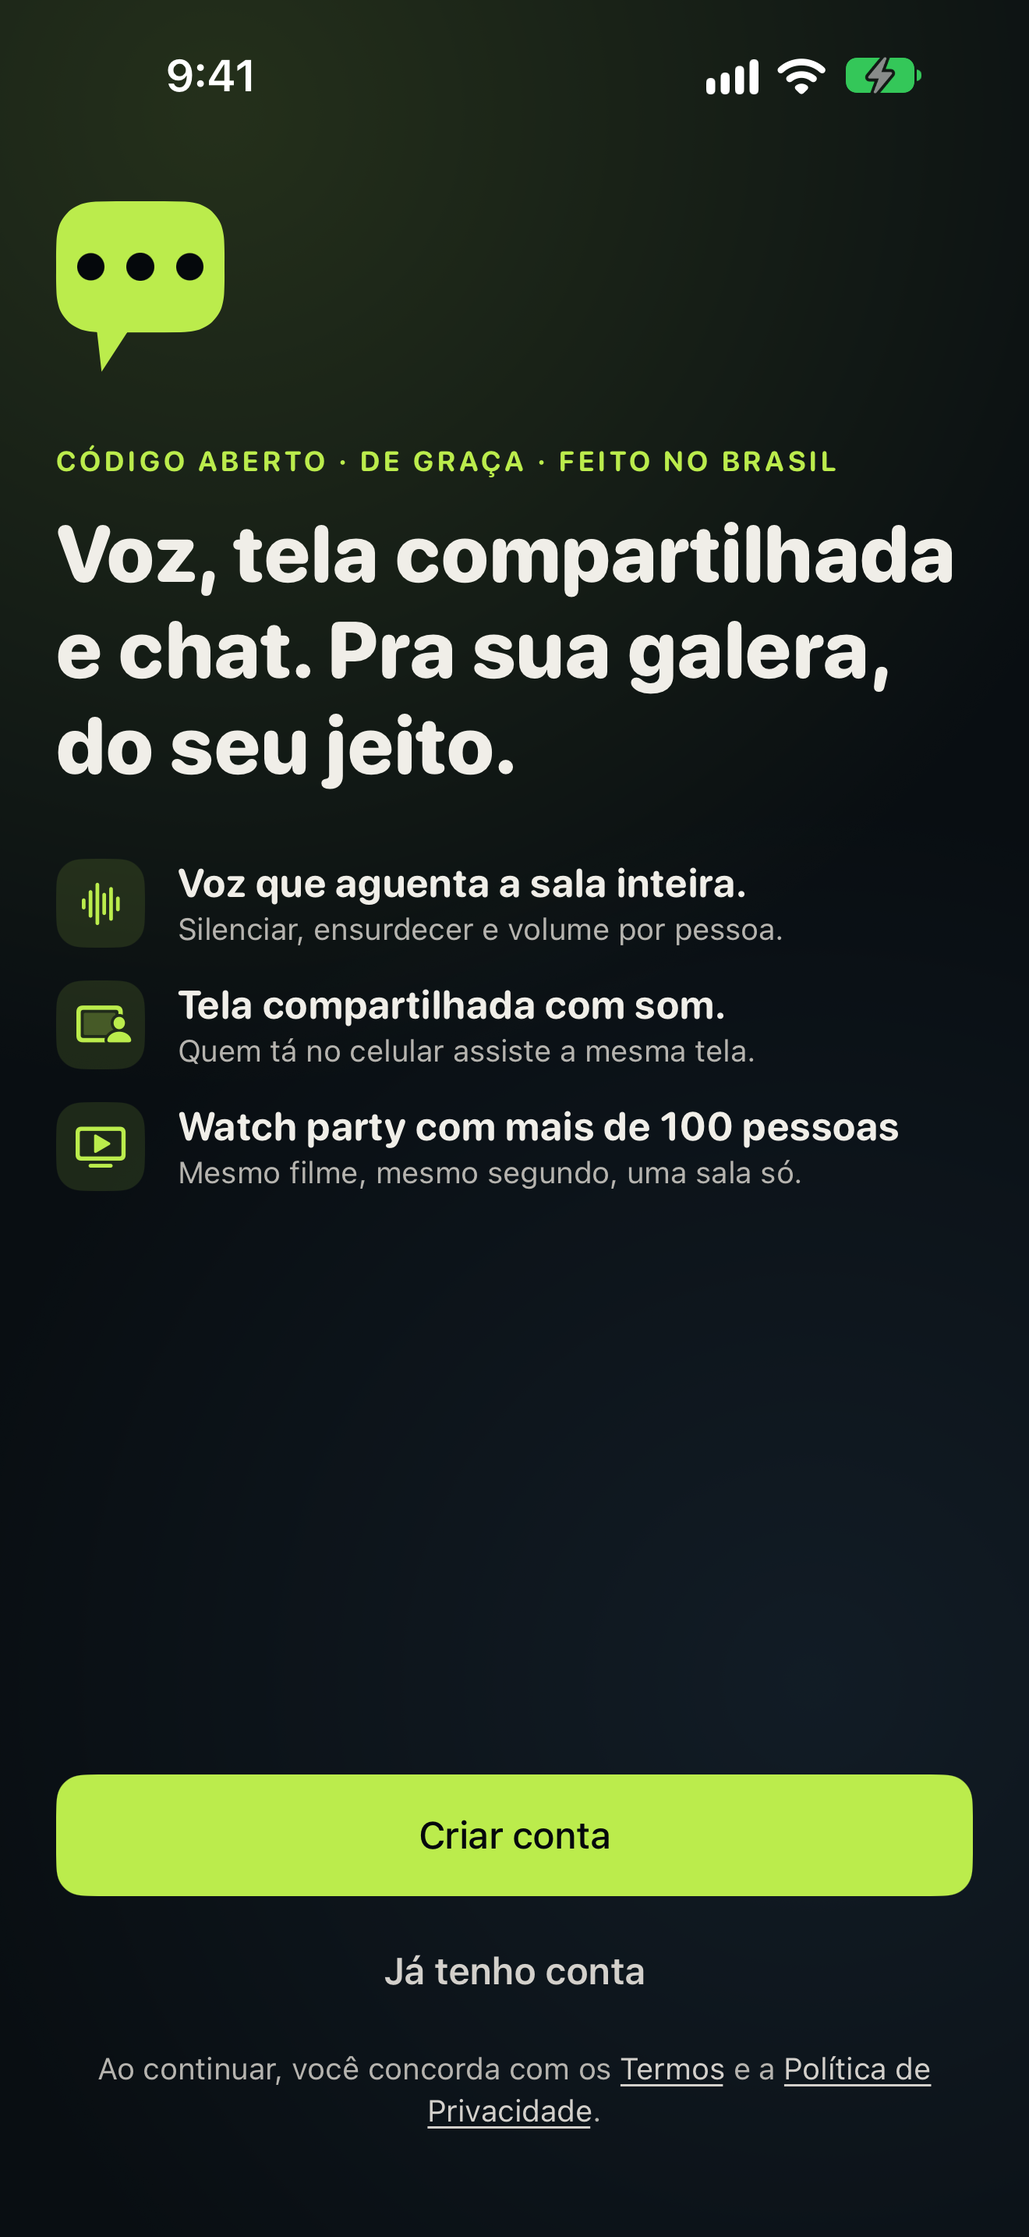
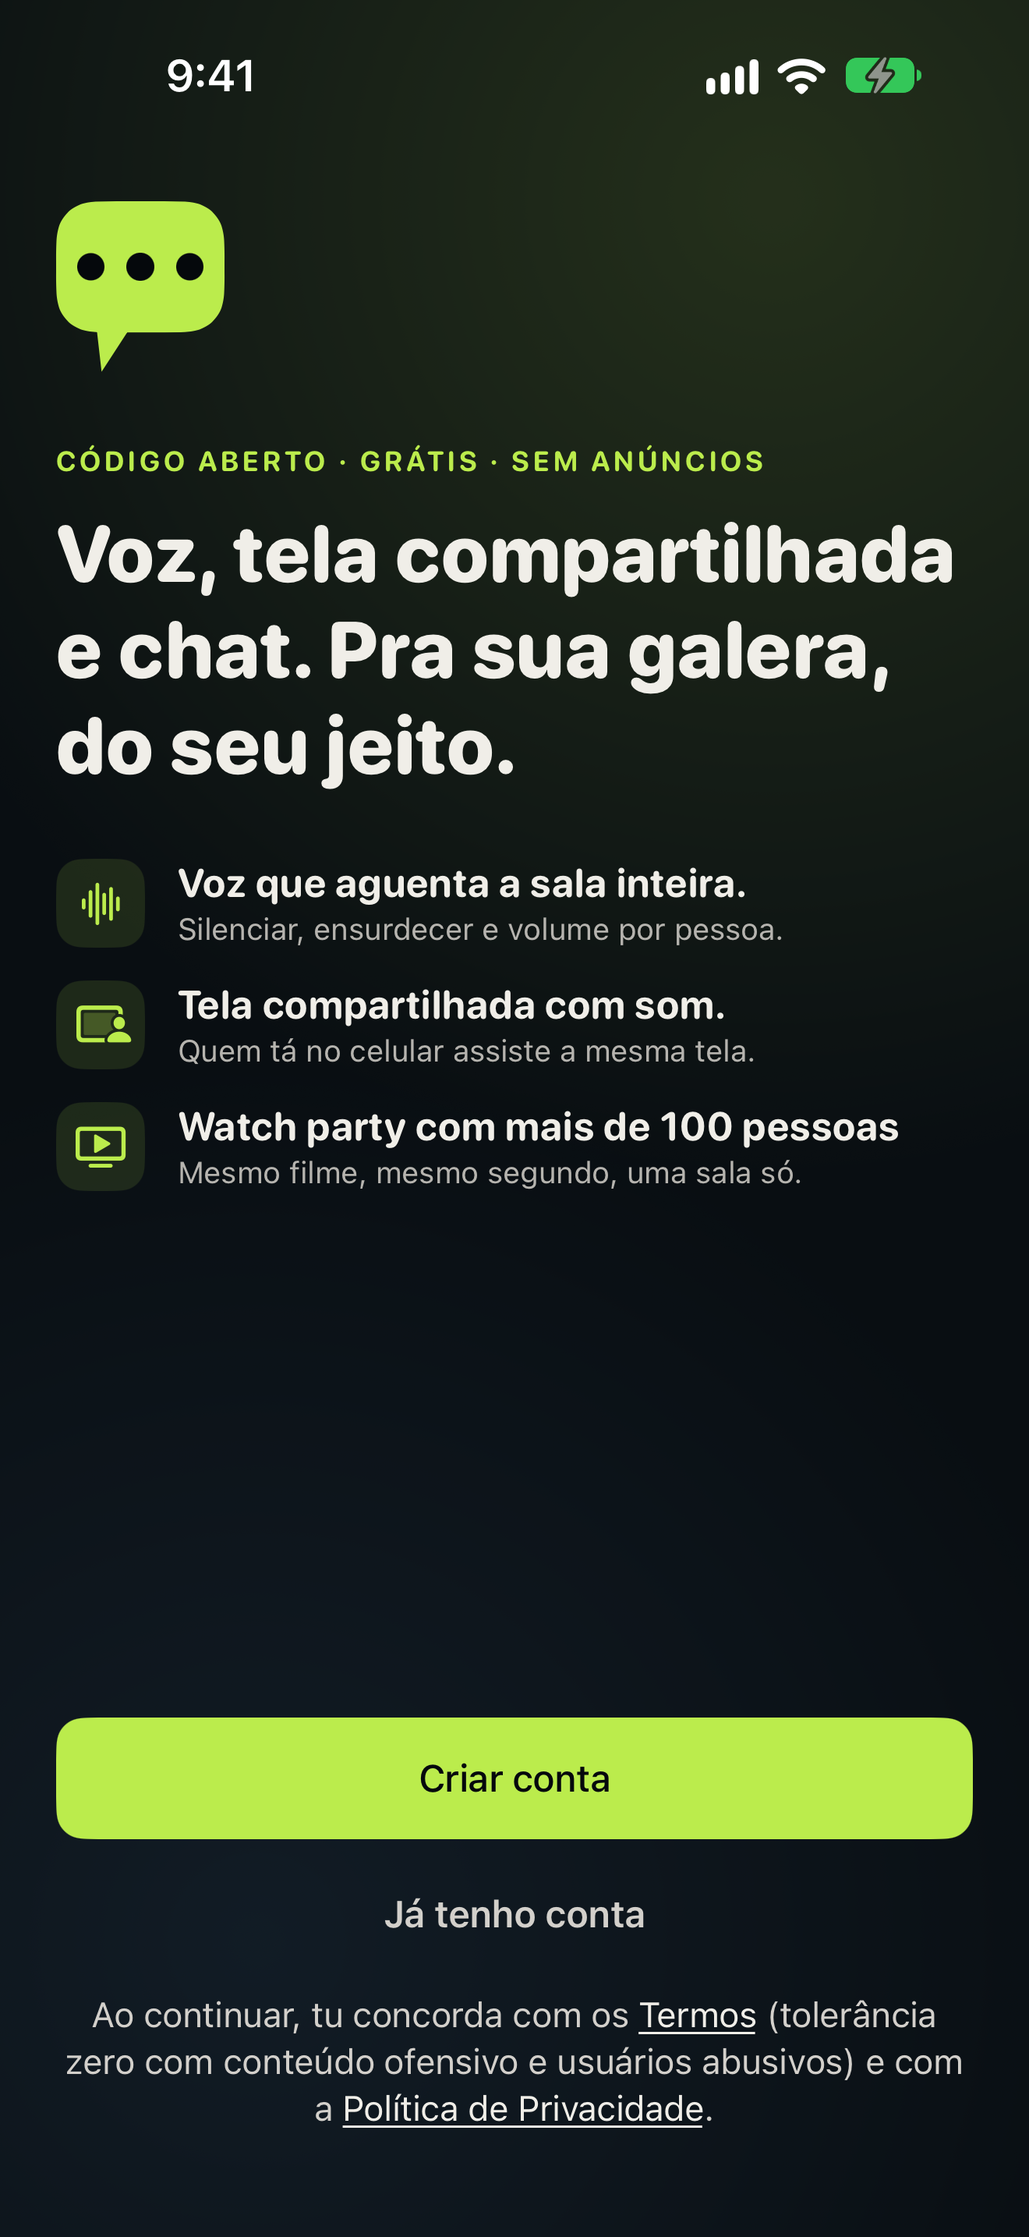
iOS App Review round 2: terms line says zero tolerance and sits on the age gate, Friends Message opens the existing DM, block hides reactions and shows an empty state, no ATS exception in Release, description claim removed, store shot 01 retaken
Claude-Session: https://claude.ai/code/session_01SbDEYbuwWHXXn9KfNvNWqb

Changed region(s): [[0.0311, 0.7448, 0.9629, 0.962], [0.3727, 0.1862, 0.8076, 0.2172]]

diff --git a/ios/pqp/Sources/Home/FriendsView.swift b/ios/pqp/Sources/Home/FriendsView.swift
@@ -204,10 +204,12 @@ struct FriendsView: View {
                 .buttonStyle(.plain)
                 .disabled(model.busyId == friend.id)
                 .contextMenu {
-                    Button {
-                        Task { opened = await model.openConversation(with: friend.id) }
-                    } label: {
-                        Label("Message", systemImage: "bubble.left")
+                    if !model.cannotMessage.contains(friend.id) {
+                        Button {
+                            Task { opened = await model.openConversation(with: friend.id) }
+                        } label: {
+                            Label("Message", systemImage: "bubble.left")
+                        }
                     }
                     Button(role: .destructive) {
                         model.confirming = .remove(friend)
@@ -344,6 +346,11 @@ final class FriendsModel {
     /// side and no frame back to us.
     var notice: String?
     var busyId: String?
+    /// Friends the server refused to open a conversation with, when there was
+    /// none already. Their Message action is withdrawn for the rest of the
+    /// visit: a button that can only fail, in red, with the server's sentence,
+    /// is what a reviewer pressing Message on a character friend saw.
+    var cannotMessage: Set<String> = []
     var showingAdd = false
     var confirming: Confirmation?
     /// The last live nudge, so the screen can say what just happened. A row
@@ -540,21 +547,39 @@ final class FriendsModel {
         }
     }
 
-    /// Open (or reuse) the DM with a friend. Friends bypass a `server_members`
-    /// DM privacy setting server-side, which is why this is offered here at all
-    /// — but it does NOT override `nobody`, so a refusal is still possible and
-    /// the server's wording is what gets shown.
+    /// Open (or reuse) the DM with a friend.
+    ///
+    /// An existing conversation is found in the DM list first (see
+    /// `openOrFindConversation`), so a friend the server will not OPEN a
+    /// conversation with, like a character, still opens the one that is already
+    /// in the hub. Friends bypass a `server_members` DM privacy setting
+    /// server-side, but not `nobody`, so a refusal is still possible when there
+    /// is no conversation yet. That one is not an error to show in red: the
+    /// action is withdrawn for this person and a plain line says so. The
+    /// server's sentence stays out on purpose, it is the same for every cause.
     func openConversation(with userId: String) async -> DmSummary? {
-        guard let session else { return nil }
+        guard let session, !cannotMessage.contains(userId) else {
+            if cannotMessage.contains(userId) { notice = Self.cannotMessageNotice }
+            return nil
+        }
         busyId = userId
         liveNotice = nil
         defer { busyId = nil }
         do {
-            return try await session.api.openConversation(userIds: [userId])
+            return try await session.api.openOrFindConversation(with: userId)
         } catch {
-            if let shown = error.userFacingMessage { self.error = shown }
+            if case .server(let status, _)? = error as? APIError, status == 403 {
+                cannotMessage.insert(userId)
+                notice = Self.cannotMessageNotice
+            } else if let shown = error.userFacingMessage {
+                self.error = shown
+            }
             return nil
         }
+    }
+
+    static var cannotMessageNotice: String {
+        String(localized: "You can't message this person right now.")
     }
 }
 

diff --git a/ios/pqp/Tests/BlockedUsersTests.swift b/ios/pqp/Tests/BlockedUsersTests.swift
@@ -163,4 +163,54 @@ final class BlockedUsersTests: XCTestCase {
         XCTAssertEqual(next.own?.id, me)
         XCTAssertEqual(StoryRules.droppingBlocked(strip, blocked: []), strip)
     }
+
+    // MARK: Reactions, counters, the one-to-one lookup
+
+    func testABlockedPersonsReactionLeavesTheChipAndTheCountDrops() {
+        let reactions = [
+            MessageReaction(emoji: "🎉", count: 2, me: false, users: [
+                ReactionUser(id: "friend", displayName: "Demo Friend"),
+                ReactionUser(id: "other", displayName: "Other"),
+            ]),
+            MessageReaction(emoji: "👍", count: 1, me: false, users: [
+                ReactionUser(id: "friend", displayName: "Demo Friend"),
+            ]),
+        ]
+        let shown = BlockRules.reactions(reactions, blocked: ["friend"])
+        XCTAssertEqual(shown.map(\.emoji), ["🎉"])
+        XCTAssertEqual(shown[0].count, 1)
+        XCTAssertEqual(shown[0].users.map(\.id), ["other"])
+    }
+
+    func testReactionsAreUntouchedWhenNobodyListedIsBlocked() {
+        let reactions = [MessageReaction(emoji: "🎉", count: 3, me: true, users: [])]
+        XCTAssertEqual(BlockRules.reactions(reactions, blocked: ["friend"]), reactions)
+        XCTAssertEqual(BlockRules.reactions(reactions, blocked: []), reactions)
+    }
+
+    func testTheOneToOneLookupFindsThePersonAndNeverAGroup() {
+        let person = PublicUser(id: "u1", displayName: "Demo Friend", username: nil, tag: nil, avatarUrl: nil)
+        let other = PublicUser(id: "u2", displayName: "Other", username: nil, tag: nil, avatarUrl: nil)
+        let unread = DmUnread(count: 0, mentions: 0)
+        let dm = DmSummary(channelId: "c1", kind: "dm", participants: [person], lastMessageAt: nil, unread: unread)
+        let group = DmSummary(channelId: "c2", kind: "group", participants: [person, other], lastMessageAt: nil, unread: unread)
+        XCTAssertEqual([group, dm].oneToOne(with: "u1")?.channelId, "c1")
+        XCTAssertNil([group].oneToOne(with: "u1"))
+        XCTAssertNil([dm].oneToOne(with: "u2"))
+    }
+
+    func testTheBauCommentCounterDropsByTheBlockedCommentsTheCardHolds() throws {
+        let user = #"{"id":"u1","displayName":"Demo Friend","username":null,"tag":null,"avatarUrl":null}"#
+        let post = try Coding.decoder.decode(CommunityHomePost.self, from: Data("""
+        {"id":"p1","serverId":"s1","author":\(user),"title":null,"body":"hi","teaser":"hi",
+         "visibility":"free","locked":false,"likeCount":0,"commentCount":3,
+         "publishedAt":"2026-10-15T12:00:00.000Z","createdAt":"2026-10-15T11:00:00.000Z"}
+        """.utf8))
+        let comment = try Coding.decoder.decode(CommunityHomeComment.self, from: Data("""
+        {"id":"c1","author":\(user),"body":"hello","createdAt":"2026-10-15T12:00:00.000Z"}
+        """.utf8))
+        XCTAssertEqual(post.visibleCommentCount(known: [comment], blocked: ["u1"]), 2)
+        XCTAssertEqual(post.visibleCommentCount(known: [comment], blocked: []), 3)
+        XCTAssertEqual(post.visibleCommentCount(known: [], blocked: ["u1"]), 3)
+    }
 }

diff --git a/ios/pqp/Sources/Onboarding/LegalAgreement.swift b/ios/pqp/Sources/Onboarding/LegalAgreement.swift
@@ -29,32 +29,39 @@ enum LegalLinks {
     }
 }
 
-/// "By continuing, you agree to the Terms and the Privacy Policy."
+/// "By continuing you agree to the Terms (zero tolerance for objectionable
+/// content and abusive users) and the Privacy Policy."
 ///
 /// The two links are Markdown inside one localised sentence, so a translation
 /// can order the words as its language needs. They are underlined as well as
 /// tinted: a link that differs from its sentence by colour alone is invisible
 /// to somebody who cannot tell the colours apart.
+///
+/// Round 2 of the App Review mock found the line too small and too dim to
+/// count as a presented agreement, and silent on the one thing 1.2 asks the
+/// terms to say. So it is `subheadline` in the subtle paper tone (the links in
+/// full paper), names the zero tolerance in the sentence itself, and scales
+/// with Dynamic Type.
 struct LegalAgreementLine: View {
     static var text: AttributedString {
         let source = AttributedString(
-            localized: "By continuing, you agree to the [Terms](https://pqp.gg/terms) and the [Privacy Policy](https://pqp.gg/privacy)."
+            localized: "By continuing you agree to the [Terms](https://pqp.gg/terms) (zero tolerance for objectionable content and abusive users) and the [Privacy Policy](https://pqp.gg/privacy)."
         )
         var value = source
         for run in source.runs where run.link != nil {
             value[run.range].underlineStyle = .single
-            value[run.range].foregroundColor = Palette.paperSubtle
+            value[run.range].foregroundColor = Palette.paper
         }
         return value
     }
 
     var body: some View {
         Text(Self.text)
-            .font(.footnote)
-            .foregroundStyle(Palette.paperMuted)
+            .font(.subheadline)
+            .foregroundStyle(Palette.paperSubtle)
             .multilineTextAlignment(.center)
             .fixedSize(horizontal: false, vertical: true)
-            .frame(maxWidth: 420)
+            .frame(maxWidth: 460)
             .frame(maxWidth: .infinity)
             .accessibilityIdentifier("welcome.agreement")
     }

diff --git a/ios/pqp/Sources/Core/BlockedUsers.swift b/ios/pqp/Sources/Core/BlockedUsers.swift
@@ -207,6 +207,28 @@ enum BlockRules {
         return message.blocked && !released.contains(message.authorId)
     }
 
+    /// The reactions a message shows once the blocked person's are taken out.
+    ///
+    /// A chip that still reads "🎉 Demo Friend" after the block is the person
+    /// still on screen. Each reaction loses the blocked users it lists and its
+    /// count drops by exactly that many; a chip left with nobody goes. The
+    /// reader's own reaction is never touched. The server lists who reacted
+    /// (`users`), and where it does not (an older server) there is nothing to
+    /// match a block against, so the reaction stays as it was.
+    static func reactions(
+        _ reactions: [MessageReaction], blocked: Set<String>
+    ) -> [MessageReaction] {
+        guard !blocked.isEmpty else { return reactions }
+        return reactions.compactMap { reaction in
+            let hidden = reaction.users.filter { blocked.contains($0.id) }.count
+            guard hidden > 0 else { return reaction }
+            var next = reaction
+            next.users.removeAll { blocked.contains($0.id) }
+            next.count = max(reaction.count - hidden, 0)
+            return next.count > 0 ? next : nil
+        }
+    }
+
     /// A conversation is hidden from the list when it is a 1:1 with somebody
     /// blocked. A group stays (the other members are not blocked), and its
     /// preview line is dropped when the newest message is the blocked person's.

diff --git a/ios/pqp/Tests/AppReviewMetadataTests.swift b/ios/pqp/Tests/AppReviewMetadataTests.swift
@@ -60,6 +60,31 @@ final class AppReviewMetadataTests: XCTestCase {
         XCTAssertFalse(text.contains("\u{2014}"))
     }
 
+    func testTheReleasePlistCarriesNoAppTransportSecurityException() throws {
+        // Plain HTTP to a local API is a Debug-only need, added to the BUILT
+        // plist by the "Allow local HTTP (Debug only)" phase in project.yml.
+        // The source plist is what Release ships, so it must not name ATS.
+        let info = try plist("Info.plist")
+        XCTAssertNil(info["NSAppTransportSecurity"])
+    }
+
+    // MARK: Store listing
+
+    func testTheDescriptionsMakeNoDatedAttendanceClaim() throws {
+        // A "100 people in September 2026" line cannot be checked by a reviewer
+        // (Guideline 2.3.1), so the listing says what watch parties are for.
+        let metadata = Self.appRoot
+            .deletingLastPathComponent()  // …/ios
+            .appending(path: "app-store/metadata")
+        for locale in ["en-US", "pt-BR", "es-MX"] {
+            let text = try String(
+                contentsOf: metadata.appending(path: "\(locale)/description.txt"), encoding: .utf8
+            )
+            XCTAssertFalse(text.contains("100"), locale)
+            XCTAssertFalse(text.lowercased().contains("2026"), locale)
+        }
+    }
+
     // MARK: Privacy manifests
 
     func testTheAppManifestSaysNoTrackingAndNamesUserDefaults() throws {

diff --git a/ios/pqp/Sources/Home/CommunityHomeView.swift b/ios/pqp/Sources/Home/CommunityHomeView.swift
@@ -408,6 +408,12 @@ private struct PostCard: View {
         .accessibilityIdentifier("bau.post.menu")
     }
 
+    /// The counter beside the bubble, without the comments of people the
+    /// reader blocked (they are off the card already).
+    private var visibleCommentCount: Int {
+        post.visibleCommentCount(known: expanded ?? post.commentTeaser, blocked: session.blocked.ids)
+    }
+
     private var actions: some View {
         HStack(spacing: 16) {
             Button(action: onToggleLike) {
@@ -429,14 +435,14 @@ private struct PostCard: View {
                 Image(systemName: "bubble.left")
                     .font(.system(size: 15, weight: .semibold))
                     .foregroundStyle(Palette.paperMuted)
-                Text(String(post.commentCount))
+                Text(String(visibleCommentCount))
                     .font(Typography.caption)
                     .monospacedDigit()
                     .foregroundStyle(Palette.paperMuted)
             }
             .accessibilityElement(children: .ignore)
             .accessibilityLabel(Text("Comments"))
-            .accessibilityValue(Text(String(post.commentCount)))
+            .accessibilityValue(Text(String(visibleCommentCount)))
 
             Spacer(minLength: 0)
 

diff --git a/ios/pqp/Sources/Core/APIClient.swift b/ios/pqp/Sources/Core/APIClient.swift
@@ -714,6 +714,22 @@ extension APIClient {
         return response.user
     }
 
+    /// The conversation with one person, reusing the one we already have.
+    ///
+    /// `POST /api/dms` runs its reachability checks even when the pair already
+    /// has a conversation, so a person who cannot be OPENED a conversation (a
+    /// character, whose DMs are closed to everybody, or somebody whose privacy
+    /// setting changed after the chat began) refuses a conversation that exists
+    /// and shows in the hub. The list is the authority on what exists, and it
+    /// is a read the hub already makes, so it comes first; only a person with no
+    /// conversation yet goes to the create call.
+    func openOrFindConversation(with userId: String) async throws -> DmSummary {
+        if let existing = try? await conversations().oneToOne(with: userId) {
+            return existing
+        }
+        return try await openConversation(userIds: [userId])
+    }
+
     func openConversation(userIds: [String]) async throws -> DmSummary {
         struct Body: Encodable { let userIds: [String] }
         struct Response: Decodable { let conversation: DmSummary }

diff --git a/ios/pqp/Sources/Core/CommunityHomeModels.swift b/ios/pqp/Sources/Core/CommunityHomeModels.swift
@@ -241,6 +241,20 @@ struct CommunityHomePost: Codable, Identifiable, Sendable, Hashable {
     }
 }
 
+extension CommunityHomePost {
+    /// The comment count a card shows once the comments of people the reader
+    /// blocked are off it. `known` is every comment the card holds (the whole
+    /// list once expanded, the teaser before): the server counts all of a
+    /// post comments, and only the ones held here can be matched to a block,
+    /// so a blocked comment the card never loaded still counts, which is the
+    /// honest answer to "how many comments are there".
+    func visibleCommentCount(known: [CommunityHomeComment], blocked: Set<String>) -> Int {
+        guard !blocked.isEmpty else { return commentCount }
+        let hidden = known.filter { blocked.contains($0.author.id) }.count
+        return max(commentCount - hidden, 0)
+    }
+}
+
 struct CommunityHomePostsResponse: Codable, Sendable { let posts: [CommunityHomePost] }
 struct CommunityHomeCommentsResponse: Codable, Sendable { let comments: [CommunityHomeComment] }
 struct CommunityHomeCommentResponse: Codable, Sendable { let comment: CommunityHomeComment }

diff --git a/ios/pqp/Sources/Chat/ChatView.swift b/ios/pqp/Sources/Chat/ChatView.swift
@@ -907,6 +907,18 @@ struct ChatView: View {
                             message: "Nothing here yet. Say something."
                         )
                         .padding(.top, 40)
+                    } else if rows.isEmpty && !model.messages.isEmpty && !model.hasMore
+                                && !model.isLoading && forumPost == nil {
+                        // Everything loaded is by somebody the reader blocked.
+                        // Blank would read as a broken screen; this says why,
+                        // in the same words the Baú feed uses.
+                        EmptyState(
+                            icon: "hand.raised",
+                            title: "Nothing to show",
+                            message: "Every message here is by somebody you blocked."
+                        )
+                        .padding(.top, 40)
+                        .accessibilityIdentifier("chat.allBlocked")
                     }
 
                     // THE ONLY THING THAT ANSWERS "is the tail on screen".

diff --git a/ios/pqp/Sources/Chat/ChatModel.swift b/ios/pqp/Sources/Chat/ChatModel.swift
@@ -145,12 +145,14 @@ final class ChatModel {
             guard !BlockRules.hides(
                 message, viewerId: viewerId, blocked: blocked, listLoaded: loaded, released: released
             ) else { return nil }
+            var shown = message
+            // The blocked person's reactions on everybody else's messages go
+            // with them, and the chip's count drops by theirs.
+            shown.reactions = BlockRules.reactions(message.reactions, blocked: blocked)
             // Fetched while the person was blocked, so it carries the server's
             // stamp; they were unblocked since, and the row must draw in full
             // rather than as the "hidden" placeholder.
-            guard message.blocked, released.contains(message.authorId) else { return message }
-            var shown = message
-            shown.blocked = false
+            if message.blocked, released.contains(message.authorId) { shown.blocked = false }
             return shown
         }
     }

diff --git a/ios/pqp/Sources/Onboarding/AgeGateView.swift b/ios/pqp/Sources/Onboarding/AgeGateView.swift
@@ -109,6 +109,11 @@ struct AgeStep: View {
                 .disabled(dateOfBirth == nil || submitting)
                 .accessibilityIdentifier("ageGate.submit")
 
+                // The agreement stays in front of the person on the screen
+                // that actually creates the account, not only on the welcome.
+                LegalAgreementLine()
+                    .padding(.top, 4)
+
                 // The way out for a wrong account. Not a way around the
                 // question, which has no "later".
                 Button("Sign out") {
@@ -125,6 +130,7 @@ struct AgeStep: View {
             .padding(.bottom, 12)
             .background { FooterScrim() }
         }
+        .inAppLegalLinks()
         .animation(.easeInOut(duration: 0.2), value: error)
         .sensoryFeedback(.error, trigger: failures)
         .task {

diff --git a/ios/pqp/Tests/LegalAgreementTests.swift b/ios/pqp/Tests/LegalAgreementTests.swift
@@ -9,6 +9,15 @@ final class LegalAgreementTests: XCTestCase {
         XCTAssertEqual(links, [LegalLinks.terms, LegalLinks.privacy])
     }
 
+    func testTheLineSaysThereIsZeroToleranceInTheSentenceItself() {
+        // App Review 1.2 wants the terms to say it before the account exists, and
+        // the line is the only thing read before the Terms are opened.
+        let text = String(LegalAgreementLine.text.characters)
+        XCTAssertTrue(text.contains("zero tolerance"), text)
+        XCTAssertTrue(text.contains("objectionable content"), text)
+        XCTAssertTrue(text.contains("abusive users"), text)
+    }
+
     func testOnlyTheTwoLegalPagesOpenInTheInAppBrowser() {
         XCTAssertTrue(LegalLinks.isLegal(LegalLinks.terms))
         XCTAssertTrue(LegalLinks.isLegal(LegalLinks.privacy))
